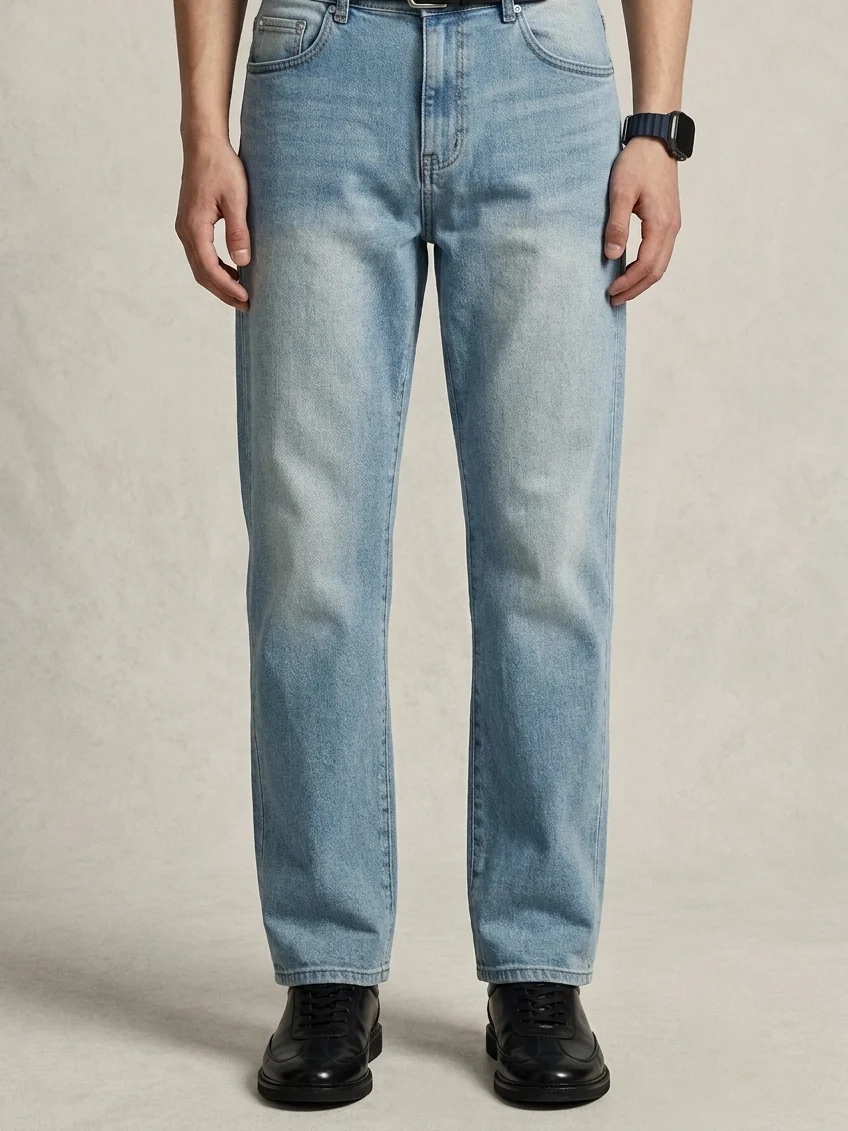
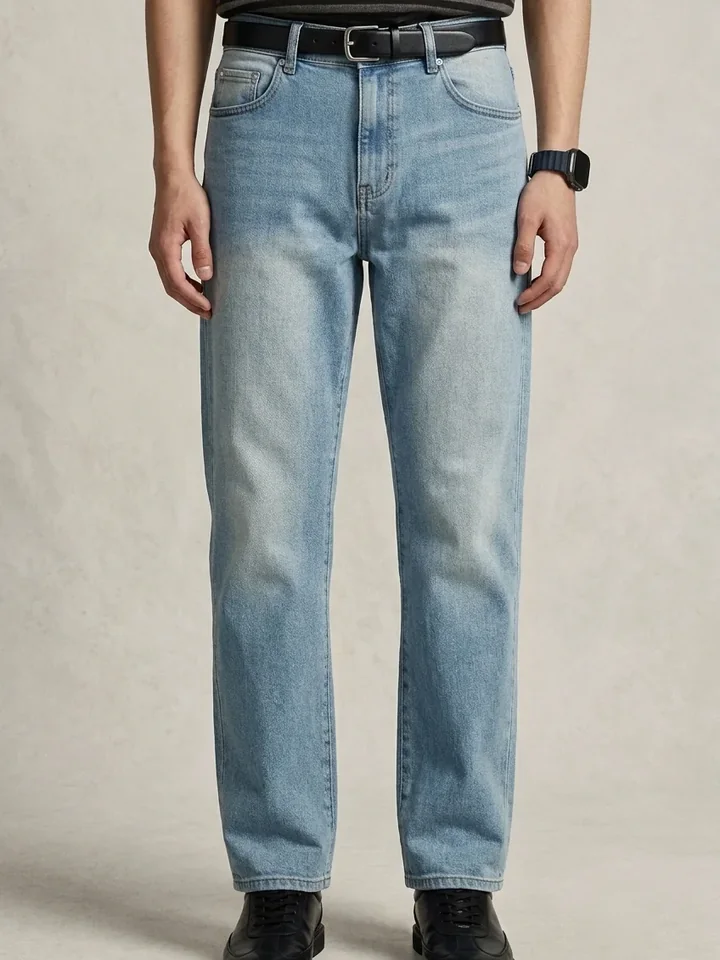
스트레이트핏 데님 팬츠 Light Blue 썸네일: 벨트라인까지 보이게 수정
Claude-Session: https://claude.ai/code/session_01KQMEfT2ai38yMadH4zStAs

Changed region(s): [[0.0, 0.0, 0.825, 1.0], [0.3361, 0.3438, 0.3667, 0.375]]

diff --git a/js/ai_works.js b/js/ai_works.js
@@ -443,7 +443,7 @@ window.AI_WORKS = [
     product: '스트레이트핏 데님 팬츠',
     title: '스트레이트핏 데님 팬츠 Light Blue',
     thumb: 'img/ai/straight/lightblue-thumb.webp',
-    thumbPos: '50% 85%',
+    thumbPos: '50% 50%',
     models: [
       'img/ai/straight/lightblue-1.webp',
       'img/ai/straight/lightblue-2.webp',
